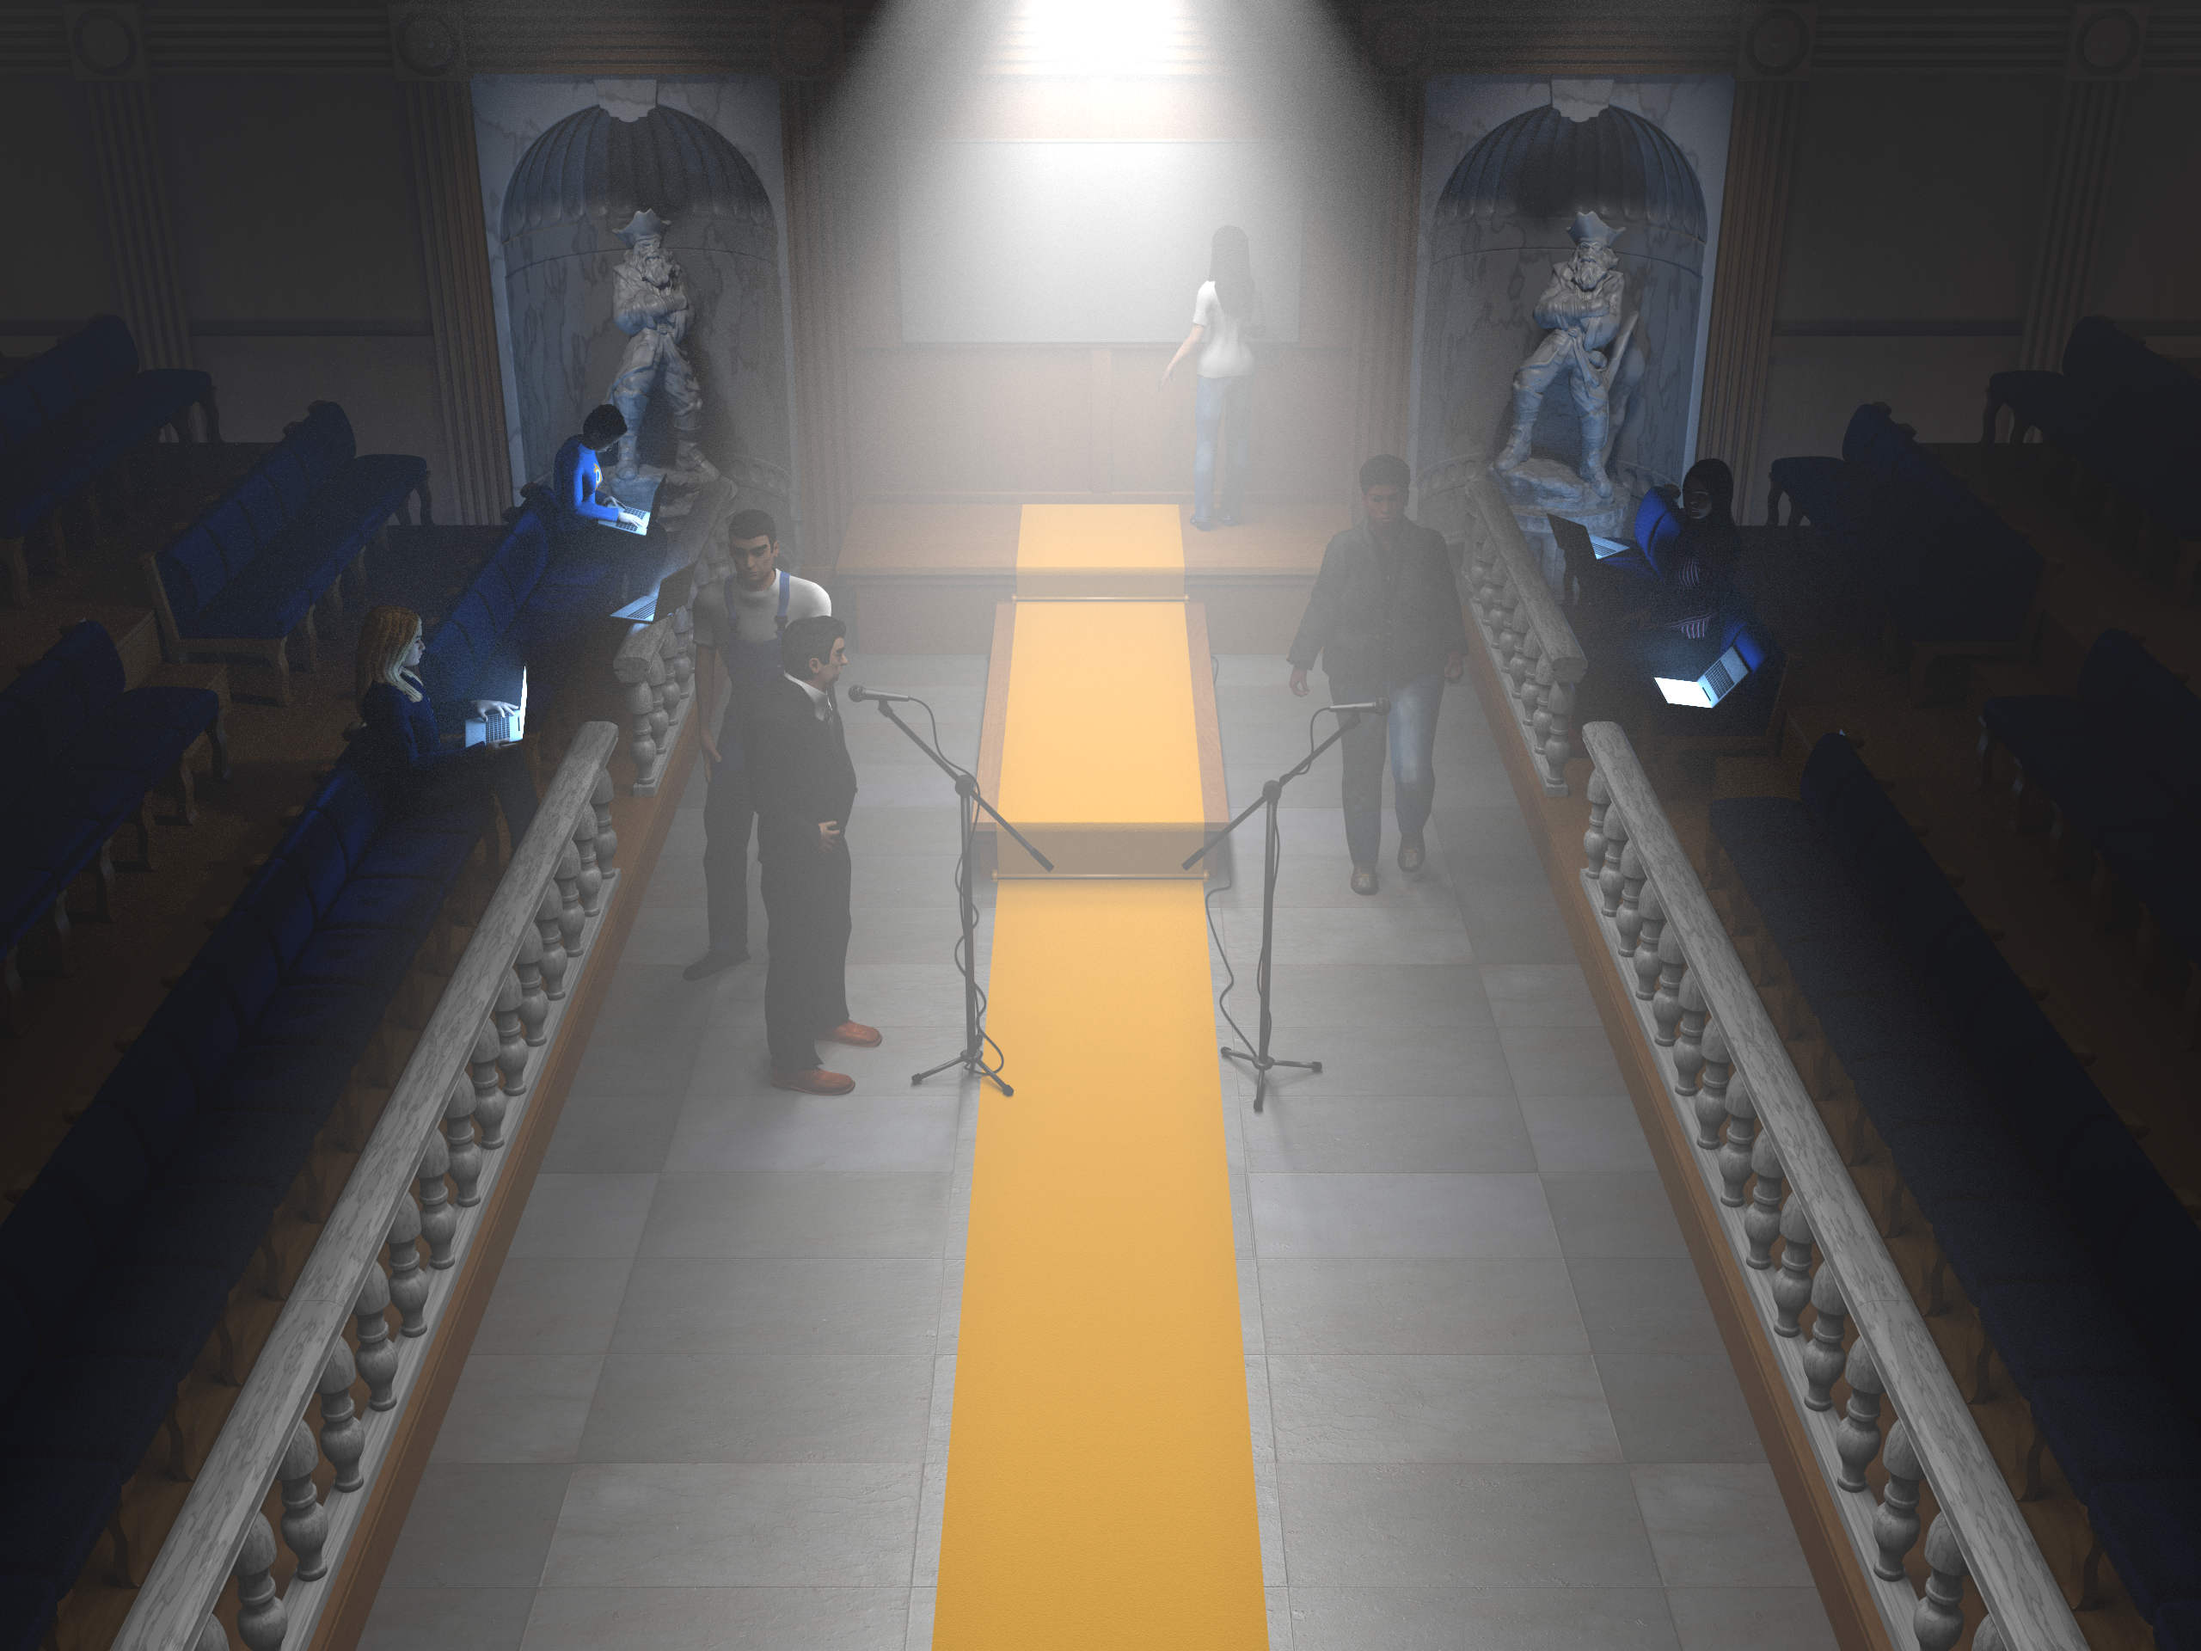
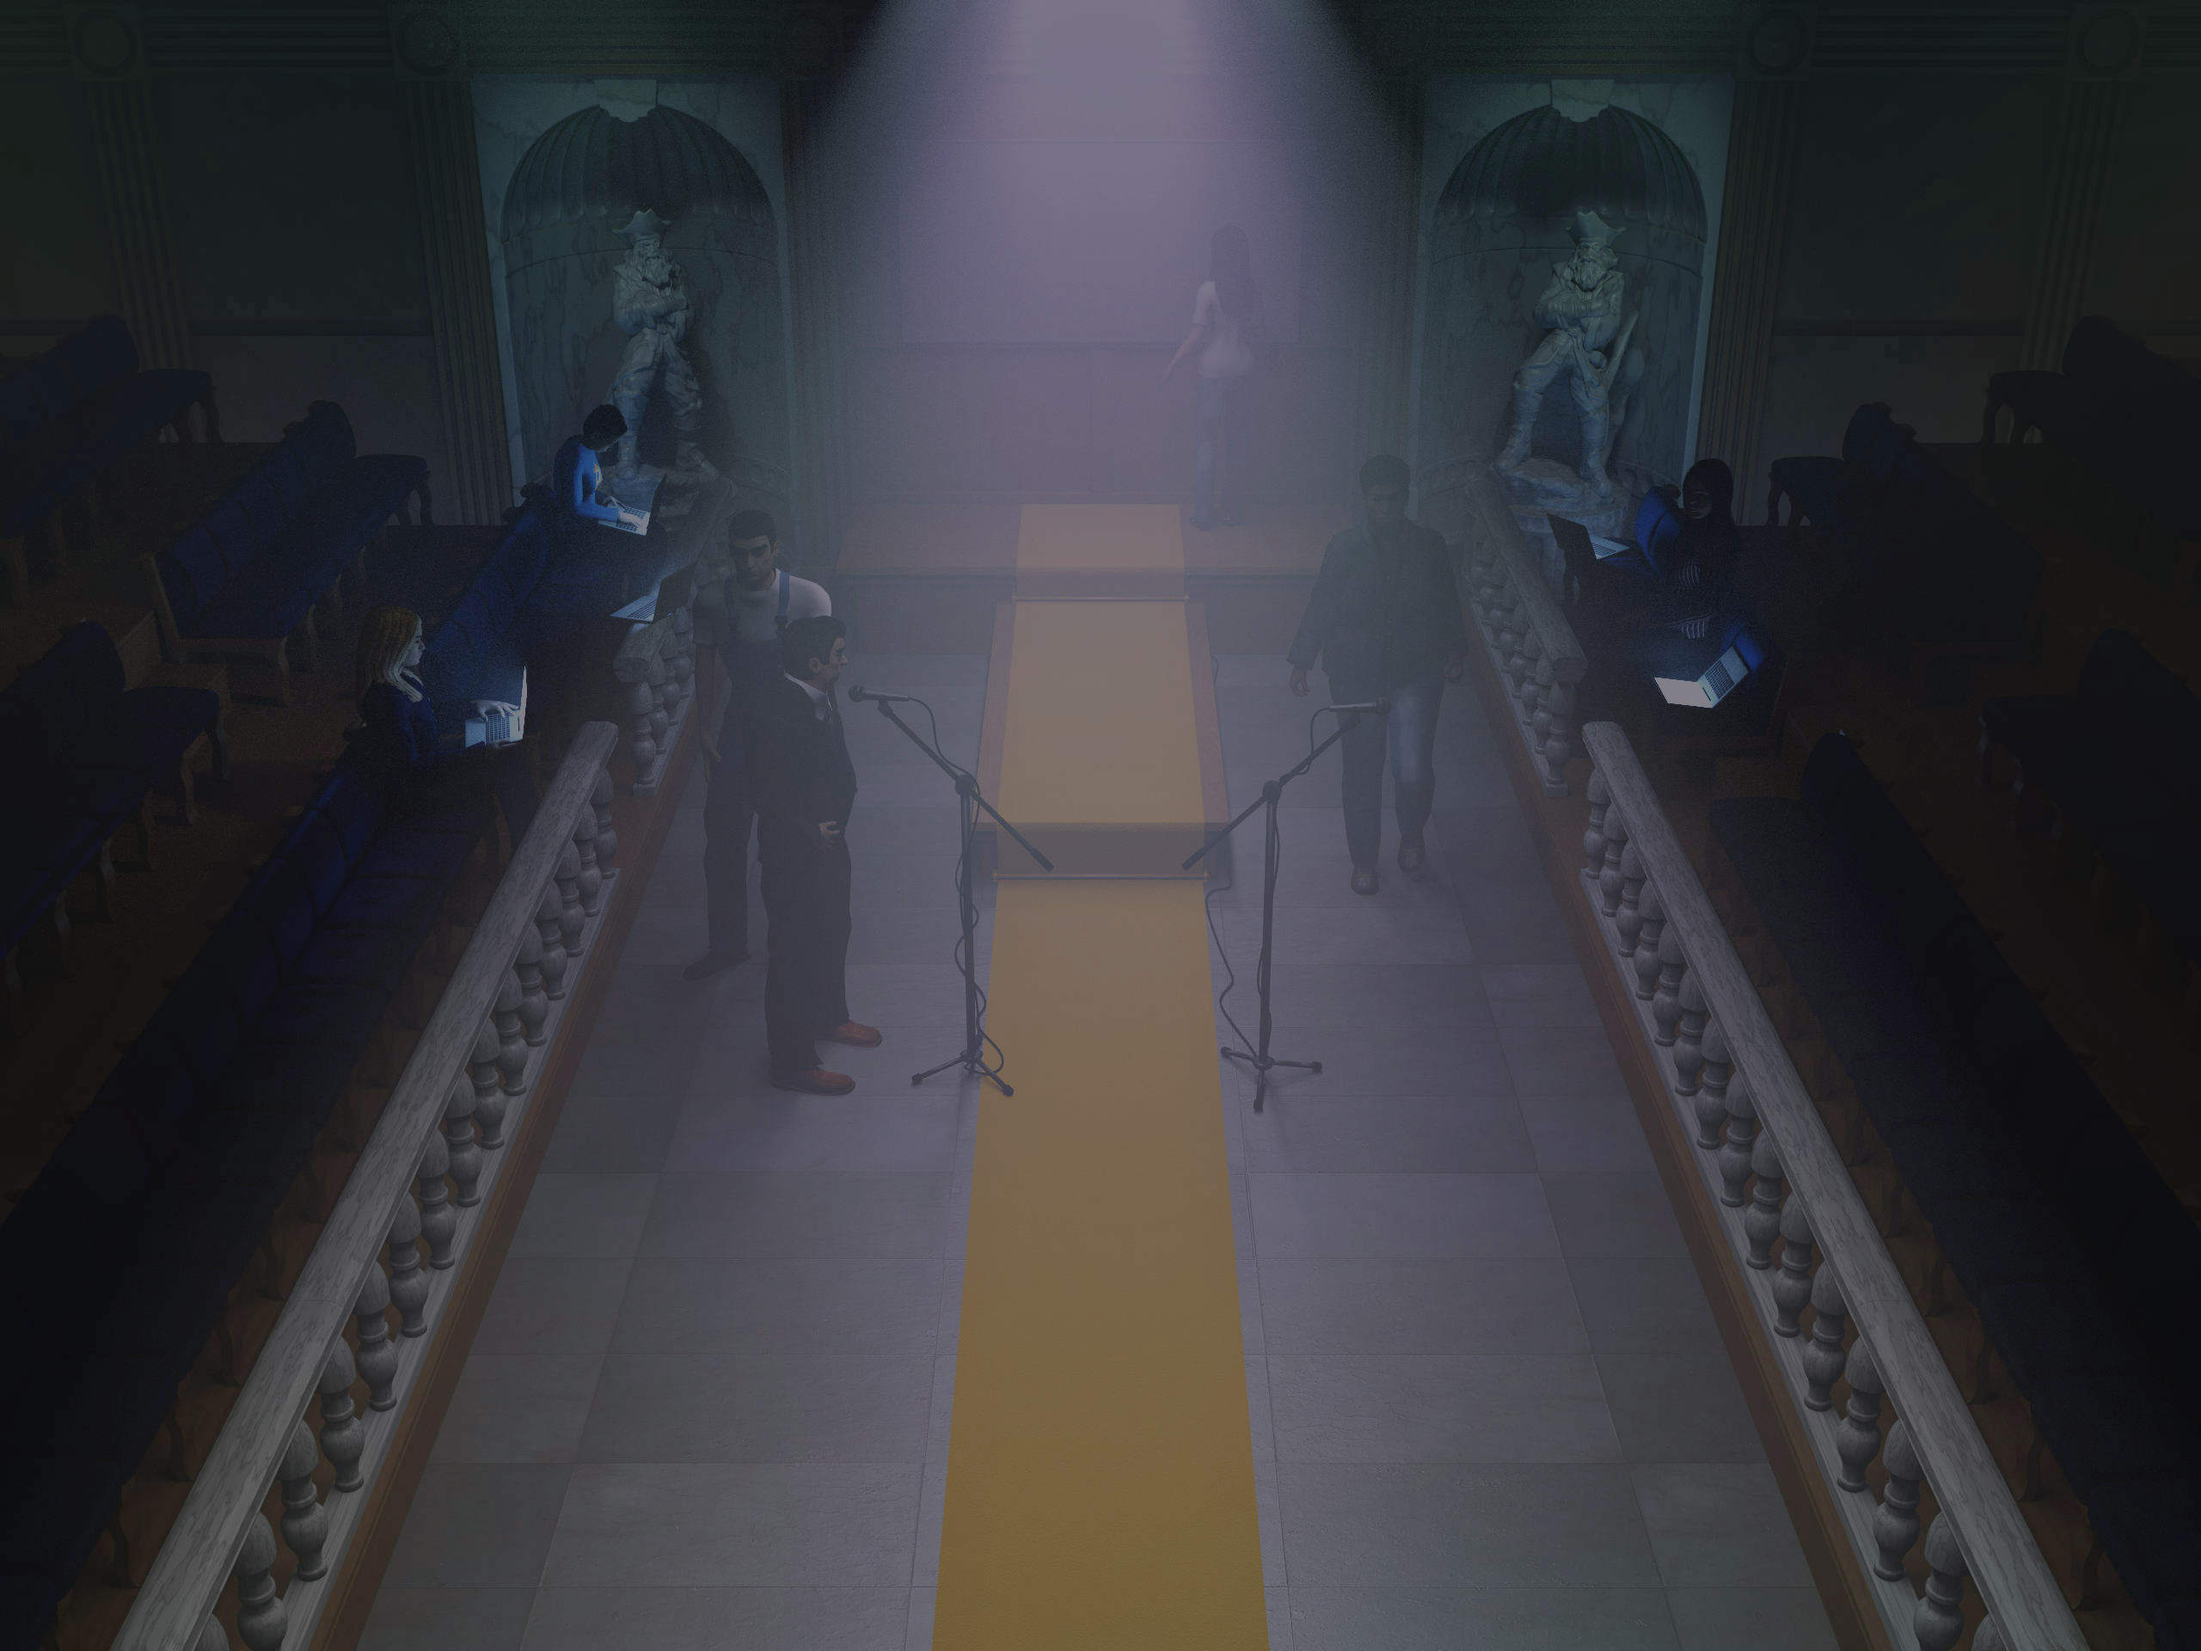
Better Background and adjusted tipp and graph fields if they are on the new background

diff --git a/static/partials/create/proposalWizzard.html b/static/partials/create/proposalWizzard.html
@@ -7,21 +7,21 @@
                      ng-style="{'background-position': '0px ' + (-150 - (step == 1) * 50 - (step < 1) * 100) + 'px'}"
                      ng-click="setStep(1)"></div>
                 <div style="border-bottom: 4px solid rgb(204, 204, 204); width: calc(32% - 52px); display: inline-block; position: relative; top: -31px; overflow: visible; margin: 0; padding: 0; text-align: left;"
-                     class="tipp"
+                     class="tipp white-on-shadow"
                      data-i18n="_wizzardProgressType_"></div>
                 <div class="wizzard-progress-icon"
                      ng-class="{'wizzard-progress-clickable': step > 2}"
                      ng-style="{'background-position': '-50px ' + (-150 - (step == 2) * 50 - (step < 2) * 100) + 'px'}"
                      ng-click="setStep(2)"></div>
                 <div style="border-bottom: 4px solid rgb(204, 204, 204); width: calc(32% - 52px); display: inline-block; position: relative; top: -31px; overflow: visible; margin: 0; padding: 0; text-align: left;"
-                     class="tipp"
+                     class="tipp white-on-shadow"
                      data-i18n="_wizzardProgressText_"></div>
                 <div class="wizzard-progress-icon"
                      ng-class="{'wizzard-progress-clickable': step > 4}"
                      ng-style="{'background-position': '-100px ' + (-150 - (step == 4) * 50 - (step < 4) * 100) + 'px'}"
                      ng-click="setStep(4)"></div>
                 <div style="width: calc(32% - 52px); display: inline-block; position: relative; top: -31px; overflow: visible; margin: 0; padding: 0; text-align: left;"
-                     class="tipp"
+                     class="tipp white-on-shadow"
                      data-i18n="_wizzardProgressSend_"></div>
                 <div style="width: 100%; display: inline-block;"></div>
             </div>
@@ -31,28 +31,28 @@
                      ng-style="{'background-position': '0px ' + (-300 - (step == 1) * 50 - (step < 1) * 100) + 'px'}"
                      ng-click="setStep(1)"></div>
                 <div style="border-bottom: 4px solid rgb(204, 204, 204); width: calc(24% - 52px); display: inline-block; position: relative; top: -31px; overflow: visible; margin: 0; padding: 0; text-align: left;"
-                     class="tipp"
+                     class="tipp white-on-shadow"
                      data-i18n="_wizzardProgressType_"></div>
                 <div class="wizzard-progress-icon"
                      ng-class="{'wizzard-progress-clickable': step > 2}"
                      ng-style="{'background-position': '-50px ' + (-300 - (step == 2) * 50 - (step < 2) * 100) + 'px'}"
                      ng-click="setStep(2)"></div>
                 <div style="border-bottom: 4px solid rgb(204, 204, 204); width: calc(24% - 52px); display: inline-block; position: relative; top: -31px; overflow: visible; margin: 0; padding: 0; text-align: left;"
-                     class="tipp"
+                     class="tipp white-on-shadow"
                      data-i18n="_wizzardProgressText_"></div>
                 <div class="wizzard-progress-icon"
                      ng-class="{'wizzard-progress-clickable': step > 3}"
                      ng-style="{'background-position': '-100px ' + (-300 - (step == 3) * 50 - (step < 3) * 100) + 'px'}"
                      ng-click="setStep(3)"></div>
                 <div style="border-bottom: 4px solid rgb(204, 204, 204); width: calc(24% - 52px); display: inline-block; position: relative; top: -31px; overflow: visible; margin: 0; padding: 0; text-align: left;"
-                     class="tipp"
+                     class="tipp white-on-shadow"
                      data-i18n="_wizzardProgressArgument_"></div>
                 <div class="wizzard-progress-icon"
                      ng-class="{'wizzard-progress-clickable': step > 4}"
                      ng-style="{'background-position': '-150px ' + (-300 - (step == 4) * 50 - (step < 4) * 100) + 'px'}"
                      ng-click="setStep(4)"></div>
                 <div style="width: calc(24% - 52px); display: inline-block; position: relative; top: -31px; overflow: visible; margin: 0; padding: 0; text-align: left;"
-                     class="tipp"
+                     class="tipp white-on-shadow"
                      data-i18n="_wizzardProgressSend_"></div>
                 <div style="width: 100%; display: inline-block;"></div>
             </div>

diff --git a/static/partials/create/argumentWizzard.html b/static/partials/create/argumentWizzard.html
@@ -7,21 +7,21 @@
                      ng-style="{'background-position': '0px ' + (-150 - (step == 1) * 50 - (step < 1) * 100) + 'px'}"
                      ng-click="setStep(1)"></div>
                 <div style="border-bottom: 4px solid rgb(204, 204, 204); width: calc(32% - 52px); display: inline-block; position: relative; top: -31px; overflow: visible; margin: 0; padding: 0; text-align: left;"
-                     class="tipp"
+                     class="tipp white-on-shadow"
                      data-i18n="_wizzardProgressType_"></div>
                 <div class="wizzard-progress-icon"
                      ng-class="{'wizzard-progress-clickable': step > 2}"
                      ng-style="{'background-position': '-50px ' + (-150 - (step == 2) * 50 - (step < 2) * 100) + 'px'}"
                      ng-click="setStep(2)"></div>
                 <div style="border-bottom: 4px solid rgb(204, 204, 204); width: calc(32% - 52px); display: inline-block; position: relative; top: -31px; overflow: visible; margin: 0; padding: 0; text-align: left;"
-                     class="tipp"
+                     class="tipp white-on-shadow"
                      data-i18n="_wizzardProgressText_"></div>
                 <div class="wizzard-progress-icon"
                      ng-class="{'wizzard-progress-clickable': step > 3}"
                      ng-style="{'background-position': '-100px ' + (-150 - (step == 3) * 50 - (step < 3) * 100) + 'px'}"
                      ng-click="setStep(3)"></div>
                 <div style="width: calc(32% - 52px); display: inline-block; position: relative; top: -31px; overflow: visible; margin: 0; padding: 0; text-align: left;"
-                     class="tipp"
+                     class="tipp white-on-shadow"
                      data-i18n="_wizzardProgressSend_"></div>
                 <div style="width: 100%; display: inline-block;"></div>
             </div>

diff --git a/static/index.html b/static/index.html
@@ -83,7 +83,7 @@
              ng-include src="'/static/partials/navigationBar.html'"
              ng-controller="FindecoMenuCtrl"></div>
 
-        <form class="row tipp" action="updateGraph()" ng-controller="FindecoGraphRowCtrl">
+        <form class="row tipp white-on-shadow" action="updateGraph()" ng-controller="FindecoGraphRowCtrl">
             <span data-i18n="_headerProposal1_">Es gibt zu diesem Thema </span>{{ graphData.nodes.length }}
             <span data-i18n="_headerProposal2_">konkurrierende </span><a href="http://www.findeco.de/hilfe/vorschlage/" data-i18n="_headerProposal3_">Vorschläge</a>
             <span data-i18n="_headerProposal4_">Es werden</span>

diff --git a/static/css/graph.css b/static/css/graph.css
@@ -33,12 +33,12 @@
 }
 
 svg .link {
-    stroke: #6d6d6d;
+    stroke: #3D3D3D;
     stroke-width: 2px;
 }
 
 svg .linkHead {
-    fill: #6d6d6d;
+    fill: #3D3D3D;
 }
 
 svg .nodeBackgroundCircle {
@@ -68,7 +68,7 @@ svg .inactive .nodeBackgroundCircle.spamNode {
 
 
 svg .nodeShadow {
-    fill: #999;
+    fill: #4B505E;
 }
 
 svg .nodeLabel {

diff --git a/static/css/typography.css b/static/css/typography.css
@@ -182,6 +182,11 @@ input[type=submit]:disabled, button:disabled {
     text-align: center;
 }
 
+.white-on-shadow {
+    color: #ffffff;
+    text-shadow: 0 0 5px #000;
+}
+
 /* Styling for the diff page */
 
 pre.diff {
